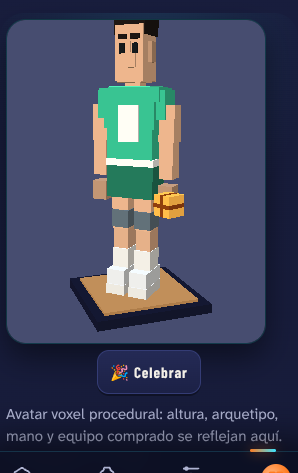
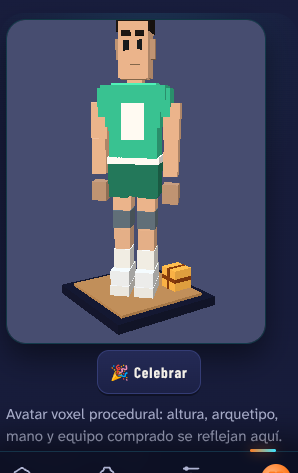
Vestidor en el menú MÁS y prueba de cajas apuntando al vestidor
Claude-Session: https://claude.ai/code/session_019gkjbxBULuptwgp5eXcimF

Changed region(s): [[0.2114, 0.0296, 0.7248, 0.7104]]

diff --git a/src/ui/views/more.js b/src/ui/views/more.js
@@ -161,10 +161,10 @@
     }
     function renderMore() {
       const s = hasCareer() ? state.career.summary : null;
-      const ico = { jugada: 'ball', editor: 'edit', market: 'handshake', club: 'arena', shop: 'bag', look: 'palette', national: 'trophy', moments: 'film', history: 'hall', guide: 'book', world: 'globe', match: 'ball', save: 'save', settings: 'gear', lab: 'flask' };
+      const ico = { jugada: 'ball', editor: 'edit', market: 'handshake', club: 'arena', shop: 'bag', gear: 'star', look: 'palette', national: 'trophy', moments: 'film', history: 'hall', guide: 'book', world: 'globe', match: 'ball', save: 'save', settings: 'gear', lab: 'flask' };
       const tile = (tab) => `<button class="tile" data-tab="${tab}" id="more-${tab}" aria-label="${esc(t('more.' + tab) + ': ' + t('more.' + tab + 'Sub'))}"><span class="ico" aria-hidden="true">${CAA.Icons.svg(ico[tab] || 'ball')}</span><b>${t('more.' + tab)}</b></button>`;
       const group = (title, tabs) => `<section class="more-group"><h3 class="eyebrow">${title}</h3><div class="tiles">${tabs.filter(Boolean).map(tile).join('')}</div></section>`;
-      const club = [s ? 'editor' : '', s && s.transfers ? 'market' : '', s && s.clubFin ? 'club' : '', s ? 'shop' : '', s ? 'look' : '', s && s.national ? 'national' : ''];
+      const club = [s ? 'editor' : '', s && s.transfers ? 'market' : '', s && s.clubFin ? 'club' : '', s ? 'gear' : '', s ? 'shop' : '', s ? 'look' : '', s && s.national ? 'national' : ''];
       const systemTabs = ['jugada', 'moments', 'history', 'guide', 'world', 'match', 'save', 'settings', 'lab'];
       const quick = s && s.club ? `<section class="card more-hero"><div class="mh-id">${crest(s.club, 34)}<div><b>${esc(s.player ? s.player.name : s.coach.name)}</b><small class="muted">${esc(s.club.name)} · ${esc(s.leagueName)}</small></div></div>
         <div class="more-stats"><div><b>${s.week}</b><small>${t('career.week')}</small></div><div><b>${s.club.wins}-${s.club.losses}</b><small>${t('league.w')}-${t('league.l')}</small></div><div><b>${(s.life && s.life.achievements ? s.life.achievements.length : 0)}</b><small>${t('me.trophies')}</small></div><div><b>${s.table && s.table.length ? s.table.find(r => r.id === s.club.id) ? s.table.find(r => r.id === s.club.id).rank + 'º' : '—' : '—'}</b><small>${t('league.table')}</small></div></div>
